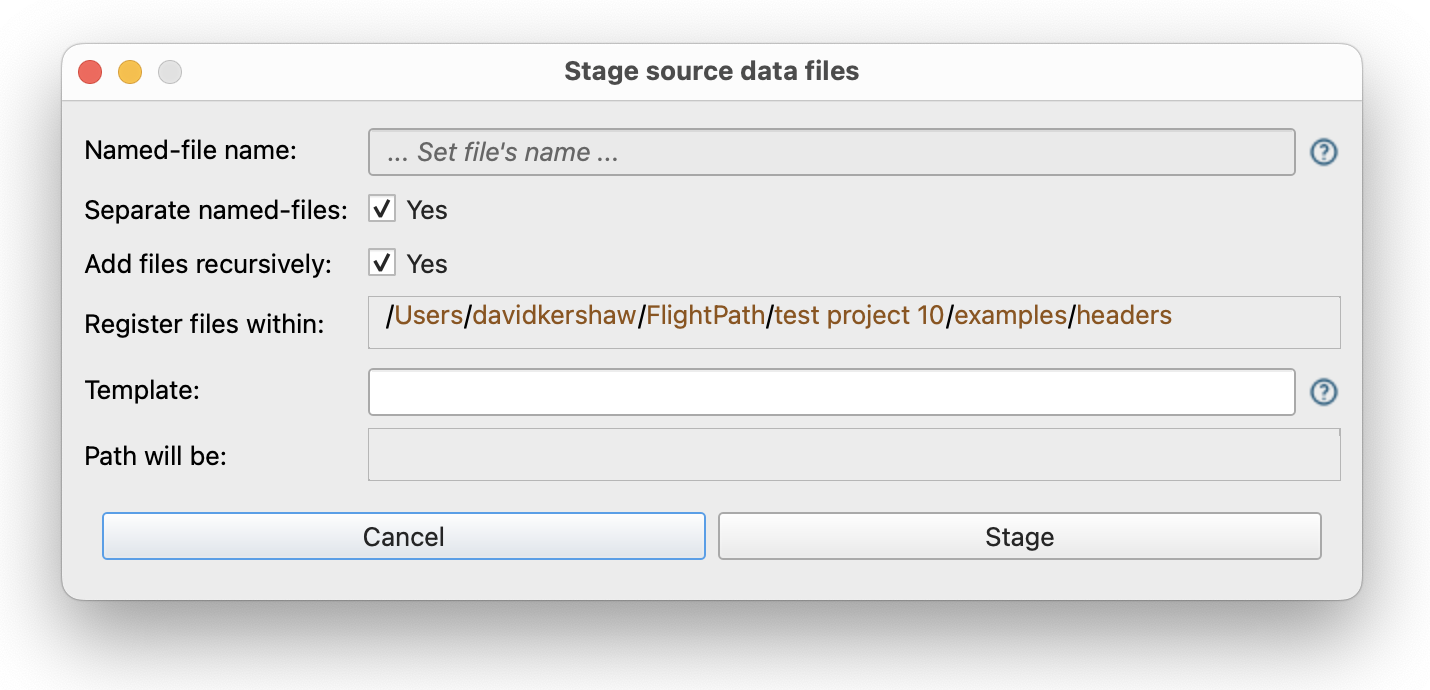
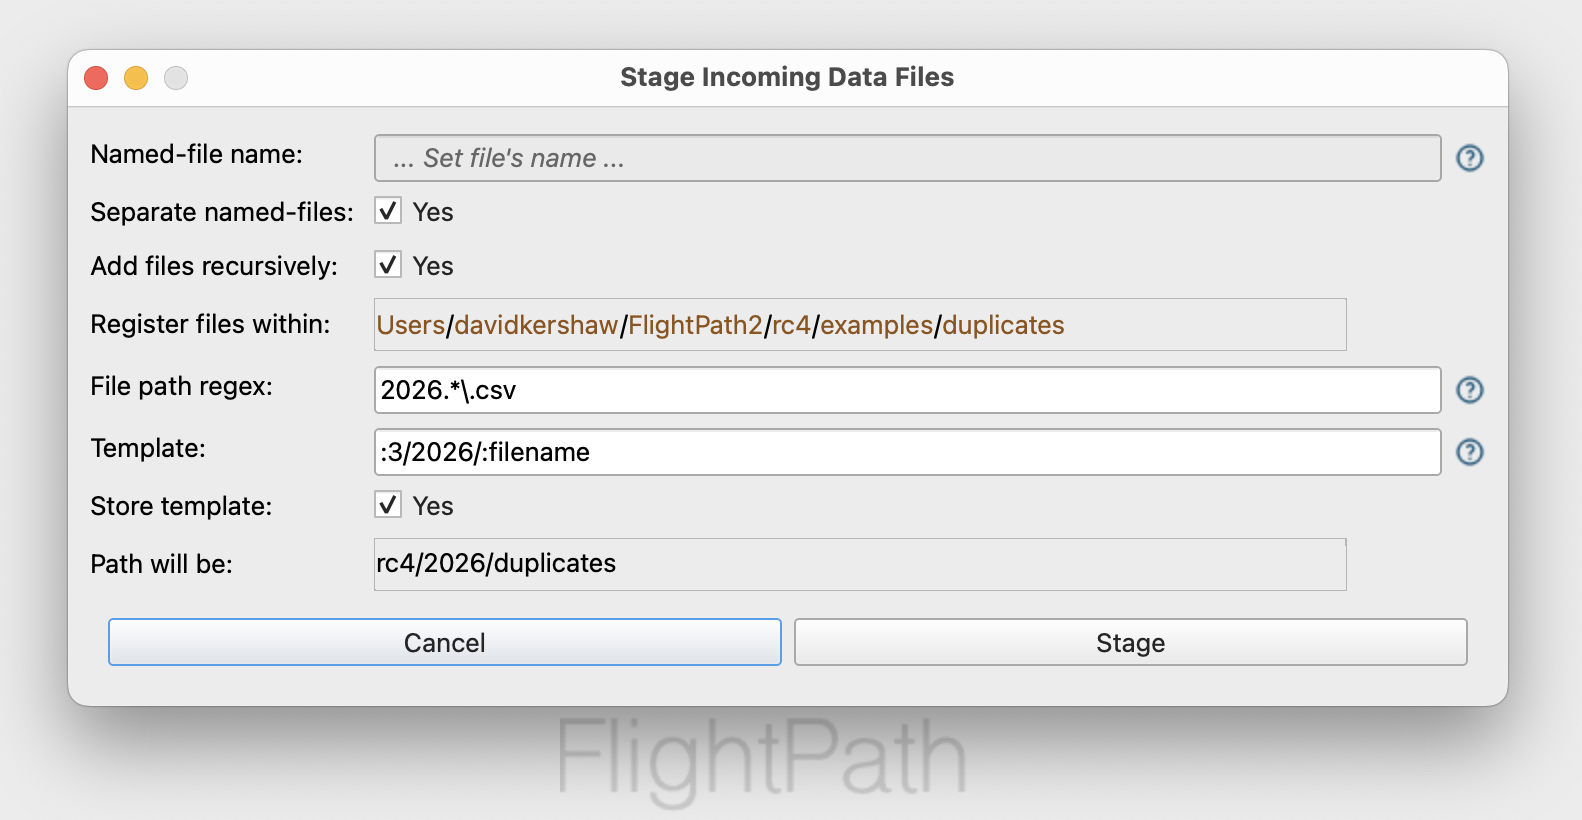
updates for release 1189

diff --git a/data/ui/dialogs/register.md b/data/ui/dialogs/register.md
@@ -7,7 +7,10 @@ parent:   Dialogs
 permalink: /data/ui/dialogs/register.html
 ---
 
-#   The Stage Data Dialog
+#   Registration Dialogs
+
+
+## The Stage Data Dialog
 
 The Stage Data Dialog enables you to register files manually. A data file is registered under a named-file, an abstract and predictable entity. The named-file entity represents the most recent file it registered. Earlier files and versions of files are available using more specific references and by browsing.
 
@@ -18,6 +21,28 @@ The Stage Data Dialog enables you to register files manually. A data file is reg
 2. <b>Source data file path</b>. This is the location where the physical file we are registering is found.
 3. <b>Stored data path template</b>. A template modifies how the physical file is stored within the abstract named-file folder tree. A physical file's location may provide semantic indicators, e.g. a year or customer name, and it sets up ways different versions can be found using references. Clicking on the source file location path elements adds tokens to the template that determine dynamically where this file is stored.
 4. <b>Stored data path</b>. The path the physical file will be located at within the named-file's directory structure
+
+
+
+![](/assets/app_images/register-files-in-directory-annotated.png)
+<div>The Stage Data Dialog registers project directories with several options for finding and organizing files as they enter your named-files</div>
+{: .caption }
+1. <b>Toggle name source</b>. The files registered can each create their own named-file using their own name. Alternatively, you can register all files under a single named-file. 
+2. <b>Scan recursively</b>. Check this box to descend the directory structure looking for data files to register. If unchecked, only data files in the top-level directory are registered.
+3. <b>Path segments</b>. Templates determine the path structure of the files within a named-file. This can help you separate restated data, files from different sources, test data, and other types of files. Clicking these links adds their token to the template text box below.
+4. <b>Regex</b>. You can optionally use a regular expression to select only certain files for registration.
+5. <b>Template field and preview</b>. Templates can help FlightPath operations and may simplify integration with other systems. When the checkbox is checked the template you enter becomes the default template used for automated registrations. Below the checkbox you can see the path that the template will become for current registration. 
+
+## The Stage Non-local Data Dialog
+
+![](/assets/app_images/stage-non-local-dialog.png)
+<div>The Stage Non-local Data Dialog registers data files that are not on your local drive</div>
+{: .caption }
+1. <b>Named-file name</b>. The file you register is staged in this named-file.  
+2. <b>Location</b>. The location of the file can be in any of the backends configured for this project, regardless of if they are in use for named-files, named-paths, or the archive, or not. If the configuration is present, they can be used.  
+3. <b>Project location</b>. You have the option of copying the registered file into the project workspace. It is also possible to copy the registered file back to the project later.  
+4. <b>Project-scoped SFTP</b>. If your non-local file is in an unknown SFTP server these two buttons appear offering to setup a named-file-specific SFTP config or the project-wide SFTP backend config.  
+5. <b>SFTP backend config</b>. A project as a whole can only have one SFTP backend; although both named-files and named-paths can have their own narrowly scoped SFTP configs. The project-wide backends are primarily used to register files, validation groups, and results.  
 
 
 <script>

diff --git a/data/features/staging.md b/data/features/staging.md
@@ -28,7 +28,17 @@ Give the new named-file a simple, memorable name. Optionally, add a template if 
 
 <figure><img src="/assets/app_images/stage-directory.png" alt="" width="660"><figcaption></figcaption></figure>
 
-If you right-clicked a directory and selected `Stage data` the helps you import all the data files from that directory. FlightPath registers the files each as a named-file using the physical file's name or it stages all the files under a single named-file that you indicate. You can find files to register recursively and templates remains an option.
+Right-click a directory and select `Stage data` to import all the data files from that directory. FlightPath will either register the files each as a named-file using the physical file's name or it will stage all the files under a single named-file that you provide. You can find files to register recursively, use templates to customize the path to the staged bytes, and/or use a regular expression to filter the files in order to register only file names that match.
+
+Stage remote files and copy them into your FlightPath project in one action. Right-click in the whitespace of the project tree and select `Stage non-local file`. 
+
+<figure><img src="/assets/app_images/stage-non-local.png" alt="" width="660"><figcaption></figcaption></figure>
+
+If you attempt to register a file from an SFTP server FlightPath doesn't recognize it offers to configure the SFTP as a source for that specific named-file.
+
+<figure><img src="/assets/app_images/add-sftp-to-named-file.png" alt="" width="660"><figcaption></figcaption></figure>
+
+ 
 
 ## The Named-files Window
 
@@ -42,6 +52,13 @@ Your staged data from this point on is immutable and durably identified at the v
 
 In this view you can see that there are two versions of the `accounts` named-file in the `may` folder. The identity of each physical source file and the fingerprint of its immutable bytes will be carried through each processing step so that the lineage is clear, the operational details are apparent, and the runs are repeatable.
 
+
+## Find Staged Data
+
+When you register data files under a named-file you are creating a permanent, immutable, and versioned staged asset. Registered files are findable and accessible for direct use, validation runs, and forensic examination. The Find Data Dialog gives you a way to query the named-files to find the specific data you need.
+
+
+<figure><img src="/assets/app_images/find_data_dialog_2.png" alt="" width="600"><figcaption></figcaption></figure>
 
 <script>
   document.addEventListener("DOMContentLoaded", function () {
@@ -57,6 +74,5 @@ In this view you can see that there are two versions of the `accounts` named-fil
     });
   });
 </script>
-
 
 

diff --git a/data/ui/dialogs/sftp-configs.md b/data/ui/dialogs/sftp-configs.md
@@ -1,0 +1,36 @@
+---
+title:   SFTP Configs
+layout: home
+nav_order: 7
+description: "Introduces FlightPath Data's SFTP config dialog"
+parent:   Dialogs
+permalink: /data/ui/dialogs/server-configs.html
+---
+
+#   The SFTP Configs Dialog
+
+
+<figure><img src="/assets/app_images/server-configs-dialog.png" alt="" width="700"><figcaption class='caption'>The SFTP Configs dialog lets you associate SFTP servers with specific named-files and named-paths.</figcaption></figure>
+
+1. <b>Server names</b>. SFTP servers are scoped to the named-file or named-paths they are defined on and named for convenience.
+2. <b>Match on address and port</b>. FlightPath recognizes servers by their name or IP and the port they listen on. If an `sftp://` address doesn't match the project's backend configuration, FlightPath will look at the servers in scope for a match.
+3. <b>Env vars capable </b>. The four main fields can be used with project or OS environment variables. When values are ALL CAPS, FlightPath will check for a matching env var. Interpolation strings, using {}, are also available. 
+4. <b>Test Connection</b>. The test button enables a quick check to make sure your configuration is correct.
+
+
+<script>
+  document.addEventListener("DOMContentLoaded", function () {
+    document.querySelectorAll(".nav-list-link").forEach(function (link) {
+      if (link.textContent.trim() === "FlightPath Data") {
+        link.closest(".nav-list-item").classList.add("active");
+      }
+    });
+    document.querySelectorAll(".nav-list-link").forEach(function (link) {
+      if (link.textContent.trim() === "FlightPath Server") {
+        link.closest(".nav-list-item").classList.add("active");
+      }
+    });
+  });
+</script>
+
+

diff --git a/data/features/validation.md b/data/features/validation.md
@@ -91,7 +91,13 @@ And, of course, for future reference CsvPath Framework shows the references of t
 
 <figure><img src="/assets/app_images/rerun_metadata.png" alt="" width="625"><figcaption></figcaption></figure>
 
+## Transfers
 
+When a run completes you have a permanent, immutable, versioned, and accessible repository asset. However, downstream systems may want to collect their data from a location that is more accessible to them. FlightPath can transfer any results file, and the staged source data file, to any configured backend or any SFTP server identified to the named-paths group.
+
+<figure><img src="/assets/app_images/named-paths-transfers.png" alt="" width="625"><figcaption></figcaption></figure>
+ 
+Transfers are yet another way FlightPath is able to slot into existing operational environments with minimal required changes.
 
 <script>
   document.addEventListener("DOMContentLoaded", function () {

diff --git a/data/features/editors.md b/data/features/editors.md
@@ -21,6 +21,13 @@ FlightPath Data has a powerful grid view editor for tabular data. The view has a
 
 <figure><img src="/assets/app_images/grid-editor.png" alt="" width="650"><figcaption></figcaption></figure>
 
+## Edit Excel Worksheets
+
+FlightPath lets you work with worksheets within Excel documents. Access a worksheet by right-clicking the name of the file in the project files tree. The context menu shows you a list of the worksheets to choose from.
+
+<figure><img src="/assets/app_images/select-worksheet.png" alt="" width="395"><figcaption></figcaption></figure>
+
+
 ## JSON and JSONL Simplicity
 
 A simple, productive JSON editor makes it easy to edit config files and JSONL files. Pretty-printing and checking well-formedness handles JSONL's particularities, as well as more typical JSON.
